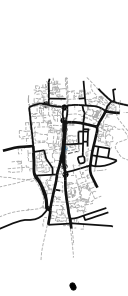
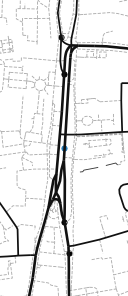
small updates

diff --git a/gpkg.py b/gpkg.py
@@ -6,7 +6,7 @@ from matplotlib.axes import Axes
 from route import Cue, Instruction
 from shapely.geometry import Point
 
-A = np.typing.NDArray[np.float64]
+A = np.ndarray[tuple[int], np.dtype[np.float64]]
 
 LONG_LAT = "EPSG:4326"
 MERCATOR = "EPSG:3857"
@@ -25,6 +25,20 @@ def rotate_projected(c: Coord, angle: Angle, origin: Coord):
         .to_crs(MERCATOR)
         .rotate(angle.deg, origin=tuple(origin.long_lat("°")))
     )
+
+
+def closest(x: float, ys: A):
+    ds = np.abs(ys - x)
+    i = np.argmin(ds)
+    return ys[i]
+
+
+def get_radius(x: float):
+    p = int(np.log10(x))
+    options = np.array([[10**i / 2, 10**i] for i in range(1, p + 2)]).flatten()
+    ans = closest(x, options)
+    print(f"{x} => r = {ans}")
+    return ans
 
 
 with open("./road_styles.json", encoding="utf-8") as f:
@@ -96,7 +110,7 @@ class GpkgMap:
         projected_origin = rotate_projected(instruction.origin, angle, instruction.origin)
         projected_origin.plot(ax=ax, label="origin")
         # Aesthetics
-        radius = 2 * (10 ** int(np.log10(instruction.dist_until_cue) + 1))
+        radius = get_radius(instruction.dist_until_cue)
         ax.set_xlim(projected_origin.x[0] - (radius * 128 / 296), projected_origin.x[0] + (radius * 128 / 296))
         ax.set_ylim(projected_origin.y[0] - (radius), projected_origin.y[0] + (radius))
         ax.set_axis_off()